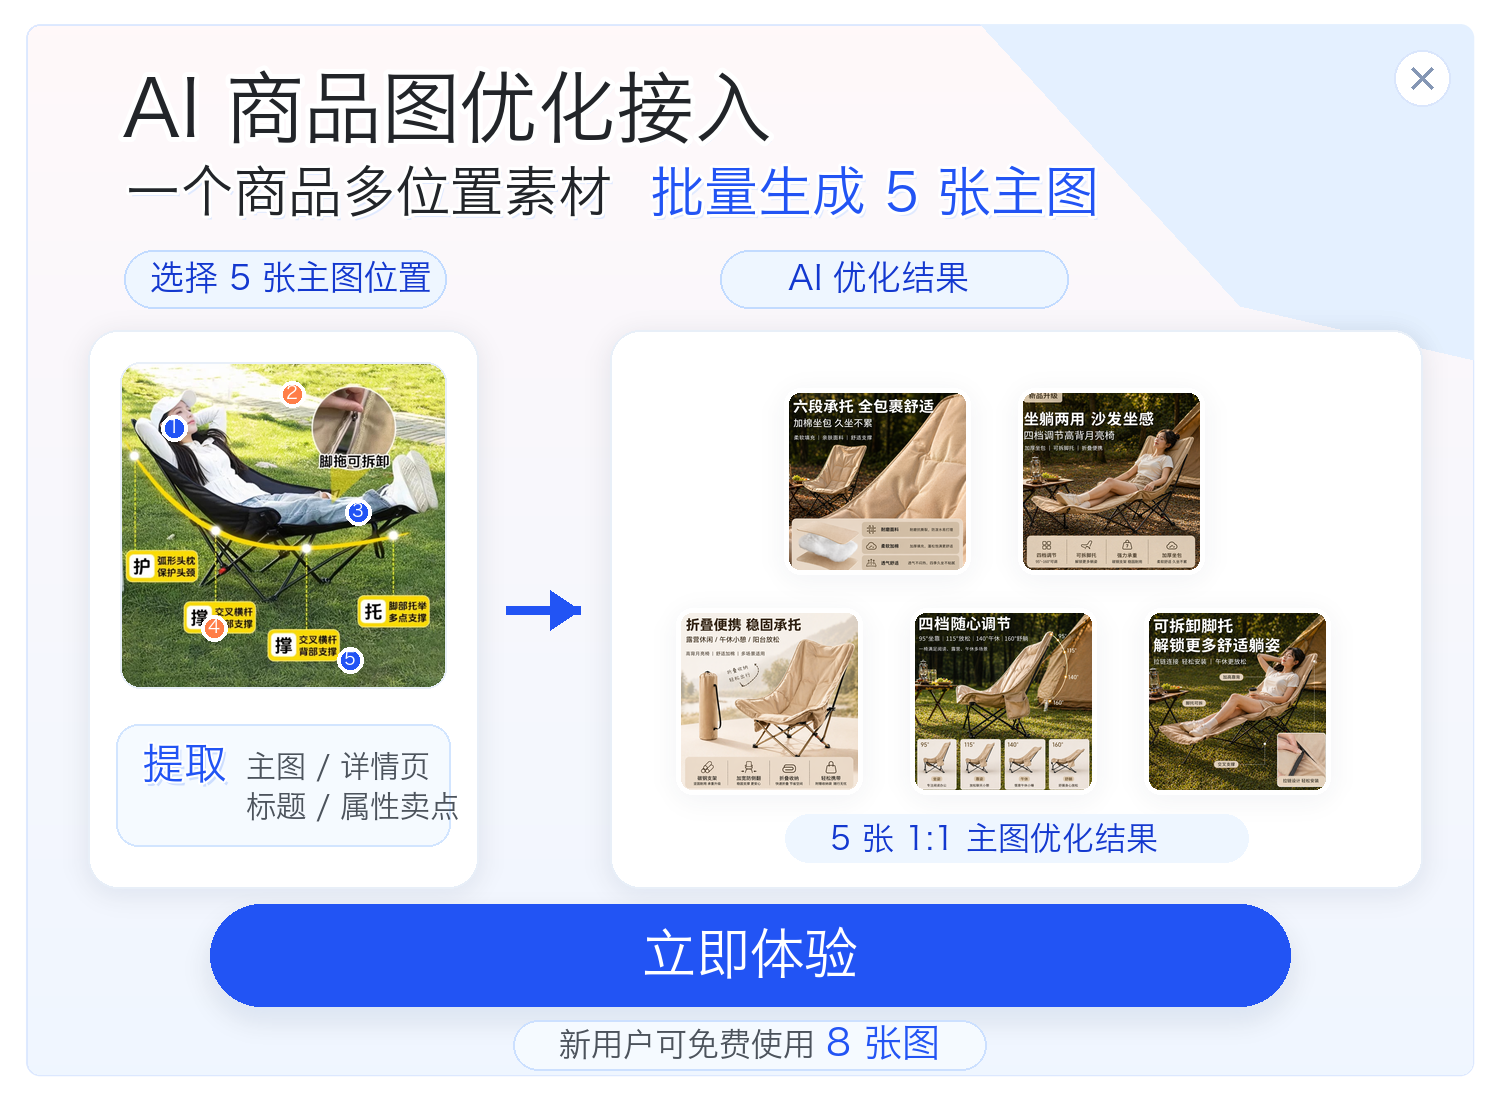
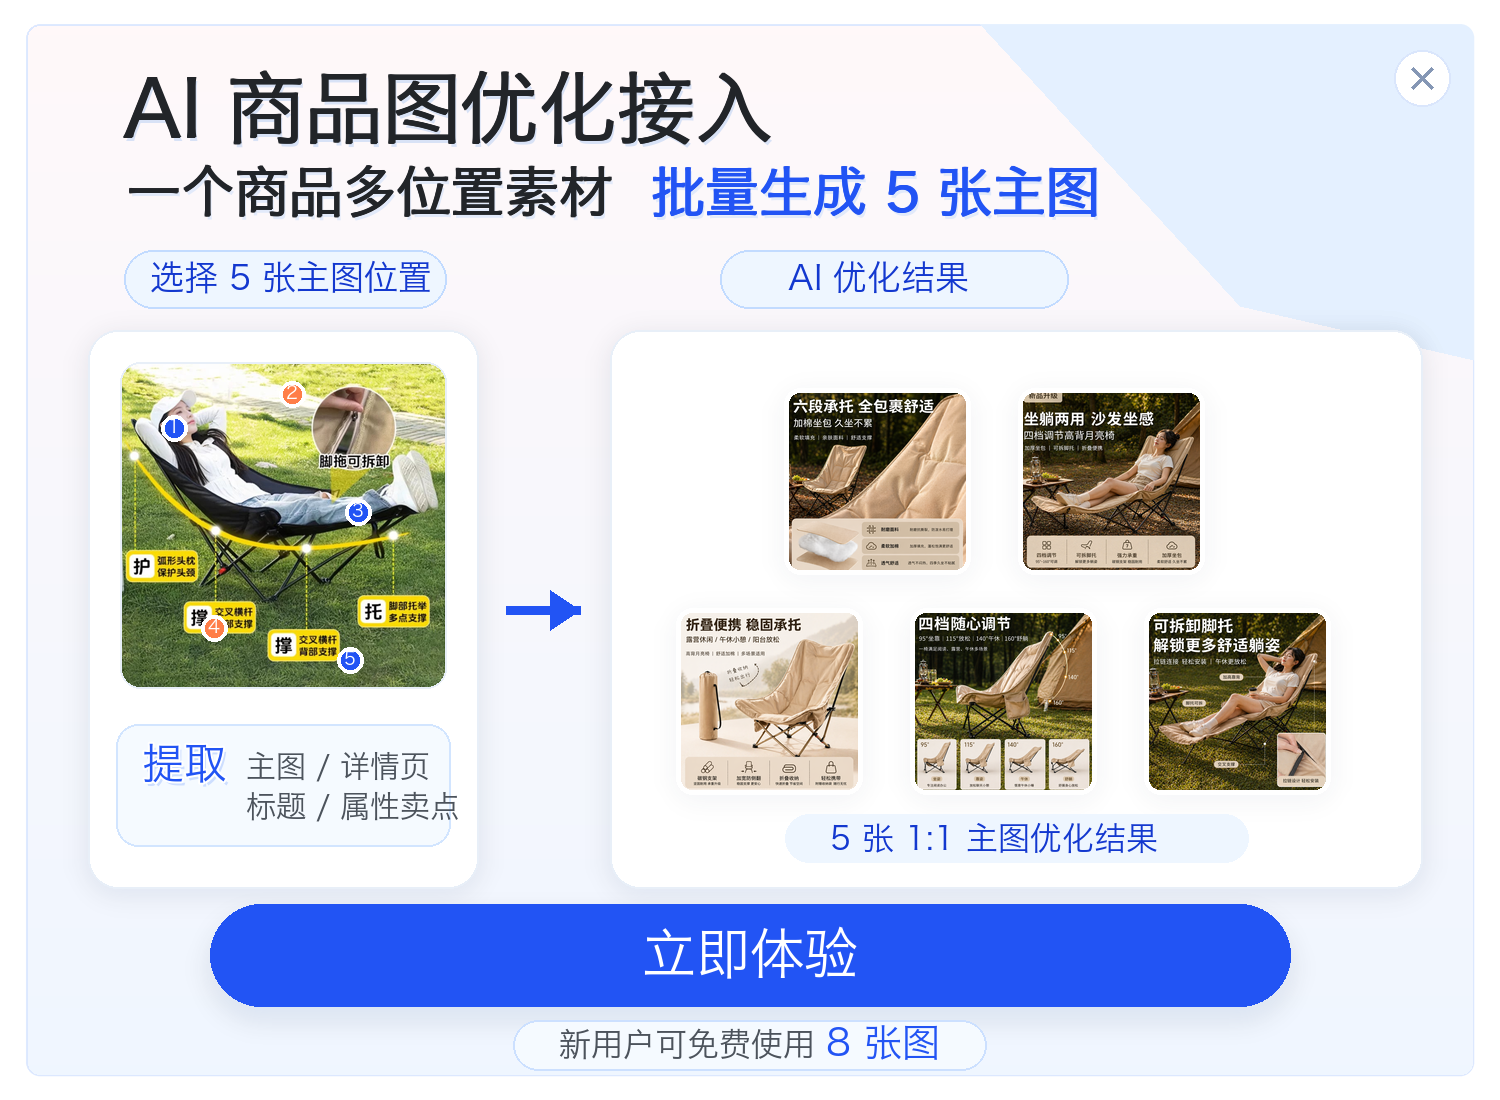
Increase AI popup title weight

Changed region(s): [[0.092, 0.0618, 0.736, 0.2164]]

diff --git a/cases/ai-product-image-optimization-module2-banner-popup/07_final/render_exact_comps.py b/cases/ai-product-image-optimization-module2-banner-popup/07_final/render_exact_comps.py
@@ -68,6 +68,13 @@ def draw_art_text(draw: ImageDraw.ImageDraw, xy, text: str, fnt, fill, stroke=(2
     draw.text((x, y), text, font=fnt, fill=fill, stroke_width=stroke_width, stroke_fill=stroke)
 
 
+def draw_heavy_text(draw: ImageDraw.ImageDraw, xy, text: str, fnt, fill, shadow_fill=(214, 226, 248)) -> None:
+    x, y = xy
+    draw.text((x + 3, y + 4), text, font=fnt, fill=shadow_fill)
+    for dx, dy in [(0, 0), (1, 0), (0, 1), (1, 1), (2, 0)]:
+        draw.text((x + dx, y + dy), text, font=fnt, fill=fill)
+
+
 def round_rect(draw: ImageDraw.ImageDraw, xy, r: int, fill, outline=None, width=1) -> None:
     draw.rounded_rectangle(xy, radius=r, fill=fill, outline=outline, width=width)
 
@@ -194,9 +201,9 @@ def render_popup() -> dict:
     d.polygon([(980, 24), (1474, 24), (1474, 360), (1240, 306)], fill=(228, 240, 255, 160))
     close_button(d, 1394, 50, 56)
 
-    draw_art_text(d, (122, 68), "AI 商品图优化接入", font(78), TEXT, stroke_width=5, shadow_fill=(207, 224, 255))
-    draw_art_text(d, (126, 164), "一个商品多位置素材", font(54), TEXT, stroke_width=3, shadow_fill=(224, 234, 255))
-    draw_art_text(d, (650, 164), "批量生成 5 张主图", font(54), BLUE, stroke_width=3, shadow_fill=(224, 234, 255))
+    draw_heavy_text(d, (122, 68), "AI 商品图优化接入", font(78), TEXT, shadow_fill=(216, 226, 246))
+    draw_heavy_text(d, (126, 164), "一个商品多位置素材", font(54), TEXT, shadow_fill=(226, 234, 250))
+    draw_heavy_text(d, (650, 164), "批量生成 5 张主图", font(54), BLUE, shadow_fill=(226, 234, 250))
 
     slots = []
     d.rounded_rectangle((124, 250, 446, 308), radius=29, fill=(238, 246, 255), outline=(194, 219, 255), width=2)
